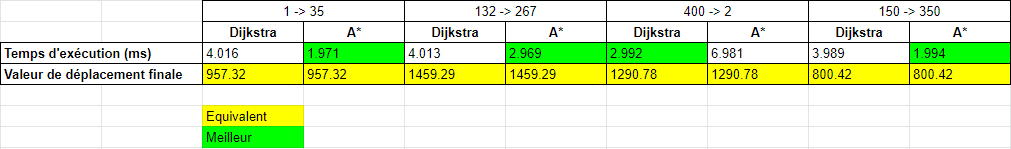
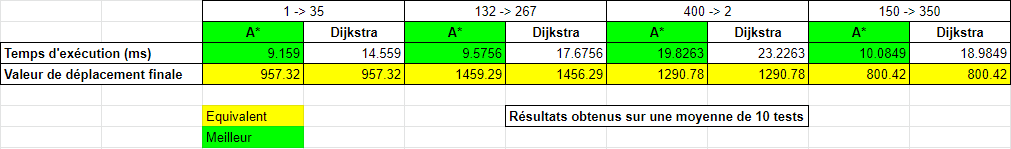
Changed µs to ms + Changed comparison png

Changed region(s): [[0.184, 0.1342, 1.0, 0.4295], [0.184, 0.4564, 1.0, 0.5369], [0.4906, 0.698, 0.7972, 0.8591]]

diff --git a/Graphe.cpp b/Graphe.cpp
@@ -395,8 +395,8 @@ void Graphe::comparer(int src, int dst)
 
     end = std::chrono::high_resolution_clock::now();
     auto elapsedDijkstra = end-begin;
-    std::cout << "\nA* : " << elapsedAStar/std::chrono::microseconds(1) << " microsecondes" << std::endl;
-    std::cout << "Dijkstra : " << elapsedDijkstra/std::chrono::microseconds(1) << " microsecondes" << std::endl;
+    std::cout << "\nA* : " << elapsedAStar/std::chrono::microseconds(1)/1000 << "." << elapsedDijkstra/std::chrono::microseconds(1)%1000 << " ms" << std::endl;
+    std::cout << "Dijkstra : " << elapsedDijkstra/std::chrono::microseconds(1)/1000 << "." << elapsedDijkstra/std::chrono::microseconds(1)%1000 << " ms" << std::endl;
 
 }
 

diff --git a/main.cpp b/main.cpp
@@ -8,6 +8,7 @@
 #include <unistd.h>
 #define GetCurrentDir getcwd
 
+// Retourne le chemin absolu de ce fichier
 std::string GetCurrentWorkingDir() {
   char buff[FILENAME_MAX];
   GetCurrentDir( buff, FILENAME_MAX );
